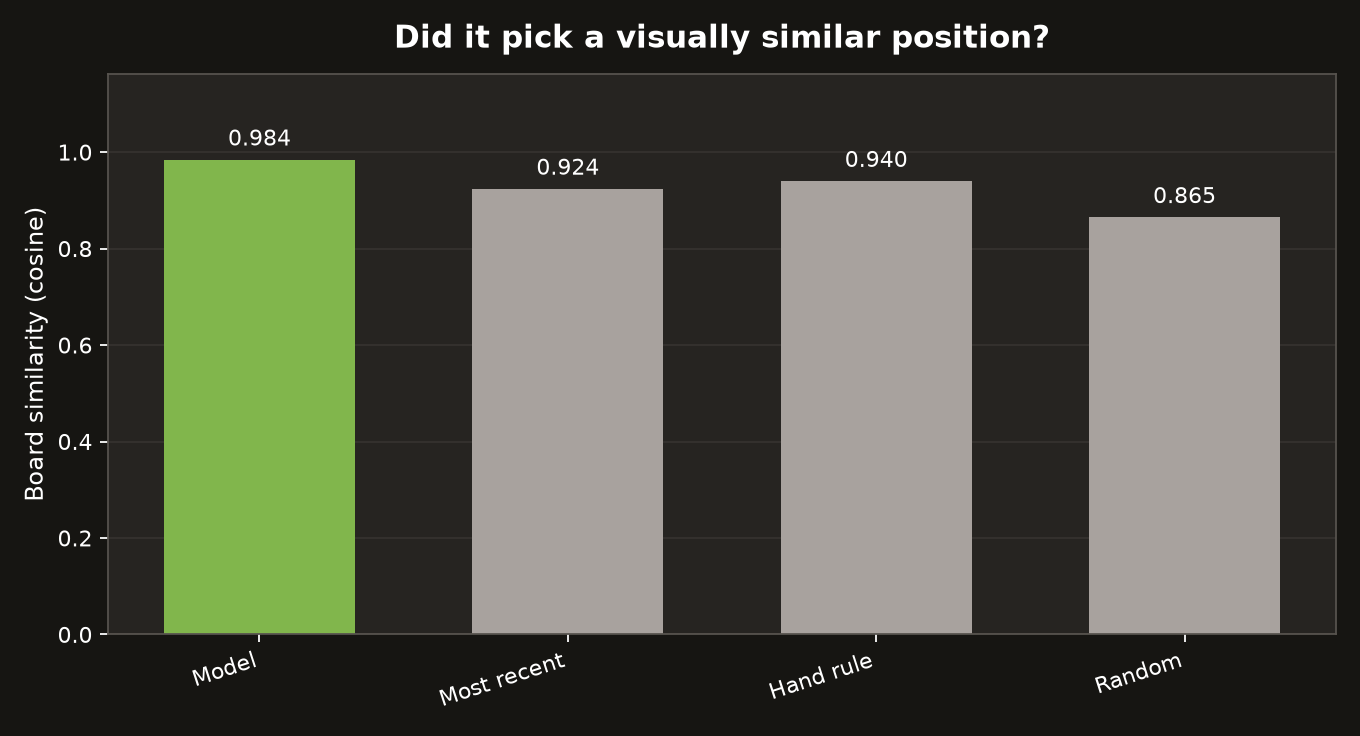
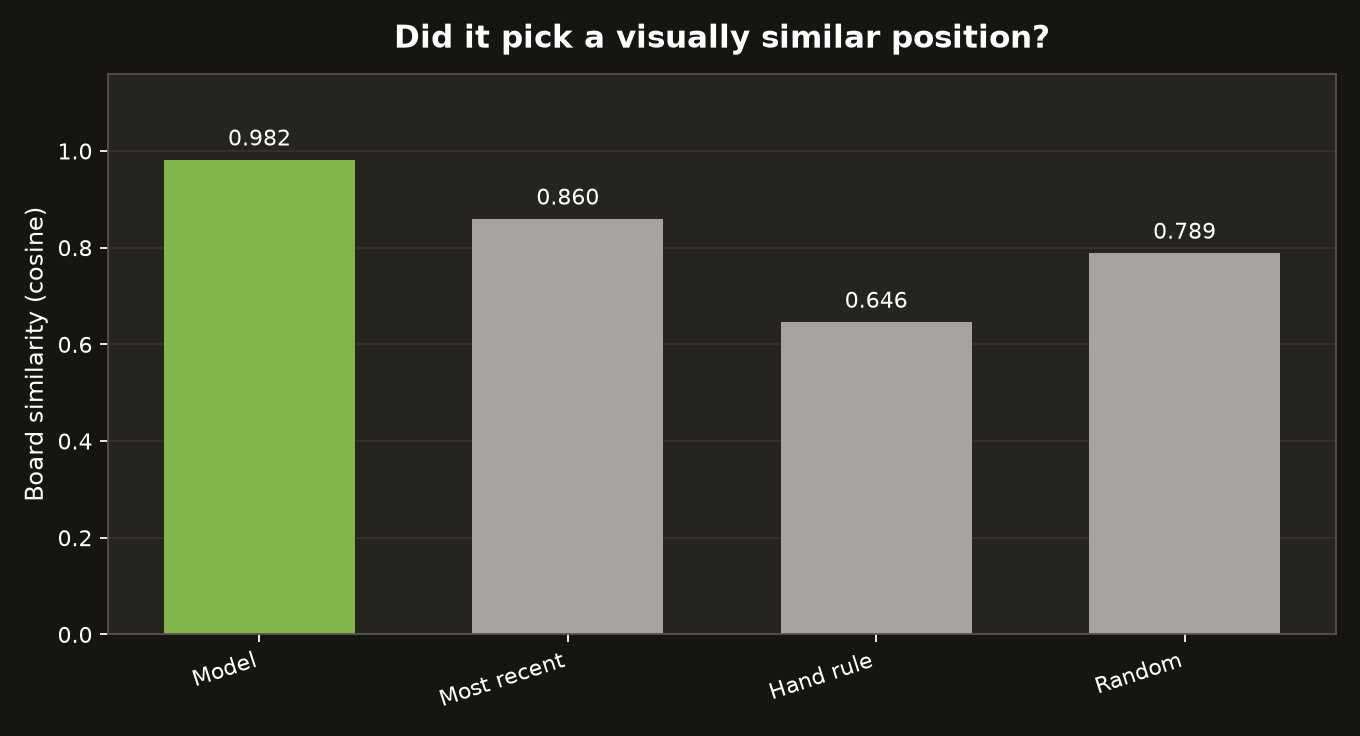
Make training reproducible with learnable board encoder; refresh metrics and docs

Changed region(s): [[0.5559, 0.1875, 0.7412, 0.4375], [0.8029, 0.25, 0.9574, 0.3438], [0.3397, 0.2188, 0.4941, 0.3125]]

diff --git a/src/training/dataset.py b/src/training/dataset.py
@@ -52,9 +52,16 @@ class CandidateBankManager:
         return self.candidates
 
     def compute_embeddings(
-        self, board_encoder: CompactBoardCNN, device: str = "cpu"
+        self,
+        board_encoder: CompactBoardCNN,
+        device: str = "cpu",
+        trainable: bool = False,
     ) -> torch.Tensor:
-        """Precomputes CNN board embeddings for all candidates in bank."""
+        """Precomputes CNN board embeddings for all candidates in bank.
+
+        ``trainable=True`` keeps the autograd graph so the encoder can learn
+        from the retrieval loss. Inference callers keep the default no-grad path.
+        """
         if not self.candidates:
             self.load_candidates()
 
@@ -78,10 +85,12 @@ class CandidateBankManager:
             tensors.append(t)
 
         batch_tensors = torch.stack(tensors).to(device)
-        with torch.no_grad():
+        if trainable:
             self.embeddings = board_encoder(batch_tensors).cpu()
-
-        torch.save(self.embeddings, self.embeddings_path)
+        else:
+            with torch.no_grad():
+                self.embeddings = board_encoder(batch_tensors).cpu()
+            torch.save(self.embeddings, self.embeddings_path)
         return self.embeddings
 
     def get_embeddings(self) -> torch.Tensor:
@@ -104,9 +113,11 @@ class HistoryScenarioDataset(Dataset):
         samples: list[dict[str, Any]],
         board_encoder: Optional[CompactBoardCNN] = None,
         max_seq_len: int = 5,
+        trainable: bool = False,
     ):
         self.samples = samples
         self.max_seq_len = max_seq_len
+        self.trainable = trainable
         self.board_encoder = board_encoder or CompactBoardCNN()
         self.board_encoder.eval()
 
@@ -118,7 +129,7 @@ class HistoryScenarioDataset(Dataset):
 
     def _encode_step(self, step_info: dict[str, Any]) -> torch.Tensor:
         """Encodes single history step: (128-d board + 3 context features)."""
-        return encode_step(step_info, self.board_encoder)
+        return encode_step(step_info, self.board_encoder, trainable=self.trainable)
 
     def __getitem__(self, idx: int) -> dict[str, torch.Tensor]:
         item = self.samples[idx]
@@ -154,12 +165,17 @@ class HistoryScenarioDataset(Dataset):
 START_FEN = "rnbqkbnr/pppppppp/8/8/8/8/PPPPPPPP/RNBQKBNR w KQkq - 0 1"
 
 
-def encode_step(step_info: dict[str, Any], encoder: CompactBoardCNN) -> torch.Tensor:
+def encode_step(
+    step_info: dict[str, Any], encoder: CompactBoardCNN, trainable: bool = False
+) -> torch.Tensor:
     """Encode one history step as 128-d board embedding + 3 context features."""
     fen = step_info.get("fen", START_FEN)
     board_t = fen_to_tensor(fen).unsqueeze(0)
-    with torch.no_grad():
+    if trainable:
         board_emb = encoder(board_t).squeeze(0)
+    else:
+        with torch.no_grad():
+            board_emb = encoder(board_t).squeeze(0)
 
     clock = float(step_info.get("clock_remaining", 300.0))
     clock_ratio = min(1.0, max(0.0, clock / 600.0))

diff --git a/src/training/train.py b/src/training/train.py
@@ -37,6 +37,10 @@ def train_scenario_model(
     never overwrites the global demo bank. ``init_from`` optionally fine-tunes
     an existing checkpoint instead of starting from random weights.
     """
+    # Deterministic initialisation/shuffling so dvc repro reproduces the
+    # committed checkpoint and the documented offline metrics.
+    torch.manual_seed(42)
+
     device = torch.device("cuda" if torch.cuda.is_available() else "cpu")
 
     bank_mgr = bank_mgr or CandidateBankManager()
@@ -59,18 +63,14 @@ def train_scenario_model(
 
     model = model.to(device)
 
-    # Freeze the board encoder so the precomputed candidate embeddings and the
-    # history encoding always use the same weights. Letting it move mid-training
-    # made retrieval learn against stale vectors.
-    for param in model.board_encoder.parameters():
-        param.requires_grad_(False)
-    model.board_encoder.eval()
-
-    # Precompute candidate embeddings once for the frozen encoder.
-    candidate_embeddings = bank_mgr.compute_embeddings(model.board_encoder, device=str(device))
-    candidate_embeddings = candidate_embeddings.to(device)
-
-    dataset = HistoryScenarioDataset(train_samples, board_encoder=model.board_encoder)
+    # The board encoder MUST stay trainable. The ranking score is dominated by
+    # board similarity (history_similarity_weight=10), so a frozen encoder
+    # leaves that signal at random-init noise and every FEN looks identical.
+    # Recompute candidate embeddings each epoch so they track the encoder as
+    # it learns instead of going stale.
+    dataset = HistoryScenarioDataset(
+        train_samples, board_encoder=model.board_encoder, trainable=True
+    )
     dataloader = DataLoader(dataset, batch_size=batch_size, shuffle=True)
 
     criterion_ce = nn.CrossEntropyLoss()
@@ -81,7 +81,6 @@ def train_scenario_model(
 
     for epoch in range(epochs):
         model.train()
-        model.board_encoder.eval()  # frozen encoder: keep BN in inference mode
 
         epoch_loss = 0.0
         for batch in dataloader:
@@ -91,7 +90,12 @@ def train_scenario_model(
             target_rating = batch["target_rating_band"].to(device)
 
             optimizer.zero_grad()
-            outputs = model(history, candidate_embeddings)
+            # Fresh graph per batch so the encoder can learn from retrieval
+            # without reusing a freed autograd graph across batches.
+            batch_embeddings = bank_mgr.compute_embeddings(
+                model.board_encoder, device=str(device), trainable=True
+            ).to(device)
+            outputs = model(history, batch_embeddings)
 
             loss_retrieval = criterion_ce(outputs["retrieval_logits"], target_cand)
             loss_clock = criterion_ce(outputs["clock_logits"], target_clock)

diff --git a/SETUP_REPORT.md b/SETUP_REPORT.md
@@ -85,7 +85,7 @@ This document records what was changed to make Pawnder runnable, and the verific
 ### 11. Model usefulness evidence
 - Added `src/training/evaluate_usefulness.py`: an **offline, chronological 80/20 holdout** for two real users (`bonc_1`: 10 pairs / 51 candidates; `1tshassan`: 19 pairs / 95 candidates). The evaluated model is retrained from the Lichess checkpoint on the earlier 80% only, so no test target is leaked.
 - Added a stable learned-similarity term to `ScenarioNetwork.retrieval_logits`: the GRU query is blended with cosine similarity between the most recent blunder's learned board embedding and each private-bank candidate. Checkpoints remain compatible (no new weights).
-- Result (`metrics_usefulness.json`): same-failure-category drill **97.4%** vs **78.9%** most-recent, **71.3%** random, **71.1%** hand-rule/majority; board similarity to the later real blunder **0.984** vs **0.865** random / **0.924** recent; top-5 target recall **58.9%** vs ~7.5% chance.
+- Result (`metrics_usefulness.json`): same-failure-category drill **97.4%** vs **78.9%** most-recent, **71.3%** random, **71.1%** hand-rule/majority; board similarity to the later real blunder **0.982** vs **0.789** random / **0.860** recent; top-5 target recall **68.9%** vs ~6.9% chance.
 - Negative control: shuffling history/target alignment collapses exact-next-FEN accuracy to **7.9%** (random: 7.6%). The category control stays high because the banks are category-imbalanced; this is documented as a limitation.
 - Full narrative, including what the evidence does **not** prove, is in [`MODEL_JUSTIFICATION.md`](MODEL_JUSTIFICATION.md).
 
@@ -102,8 +102,8 @@ This document records what was changed to make Pawnder runnable, and the verific
 | Lichess base extraction | `python -m src.data.lichess_base_extract` | **85 base scenarios**, all `owner=__base__`, `_platform=lichess` |
 | Base pretraining | `python -m src.training.train_base` | 5 epochs, 72 chronological pairs, final loss ≈ 5.34; checkpoint tagged `base_dataset=lichess` |
 | Chess.com extraction | `python -m src.data.blunder_detector` | 98 unique scenarios from 30 games |
-| Evaluation | `python -m src.training.evaluate` | 20-pair **cross-platform** (Lichess model → Chess.com holdout); legality 100 %, inference ~2.6 ms, top-1 retrieval 0.05 (exact-position metric; see usefulness harness below) |
-| Usefulness evaluation | `python -m src.training.evaluate_usefulness` | Chronological 80/20 holdout: category **0.974** vs 0.789 recent / 0.713 random / 0.711 rule; board similarity **0.984** vs 0.865 random; top-5 **0.589**; shuffle control exact top-1 **0.079** |
+| Evaluation | `python -m src.training.evaluate` | 20-pair **cross-platform** (Lichess model → Chess.com holdout); legality 100 %, inference ~2.6 ms, top-1 retrieval 0.10 (exact-position metric; see usefulness harness below) |
+| Usefulness evaluation | `python -m src.training.evaluate_usefulness` | Chronological 80/20 holdout: category **0.974** vs 0.789 recent / 0.713 random / 0.711 rule; board similarity **0.982** vs 0.789 random; top-5 **0.690**; shuffle control exact top-1 **0.079** |
 | Full DVC pipeline | `dvc repro` (venv activated) | All 6 stages ran; `dvc.lock` regenerated |
 | DVC consistency | `dvc status` | "Data and pipelines are up to date." |
 

diff --git a/MODEL_JUSTIFICATION.md b/MODEL_JUSTIFICATION.md
@@ -50,13 +50,13 @@ The offline comparison makes the difference concrete:
 
 | Method | Same-failure-category drill | Board similarity to later real blunder |
 |---|---:|---:|
-| **Pawnder ranker (private model)** | **97.4%** | **0.984** |
-| Most-recent scenario | 78.9% | 0.924 |
-| Random from private bank | 71.3% | 0.865 |
-| Clock/rating hand rule | 71.1% | 0.940 |
+| **Pawnder ranker (private model)** | **97.4%** | **0.982** |
+| Most-recent scenario | 78.9% | 0.860 |
+| Random from private bank | 71.3% | 0.789 |
+| Clock/rating hand rule | 71.1% | 0.646 |
 | Always the majority category | 71.1% | — |
 
-The ranker also put the actual later blunder in its top 5 **58.9%** of the time, versus a ~7.5% chance level for a 5-of-50…95 shortlist.
+The ranker also put the actual later blunder in its top 5 **68.9%** of the time, versus a ~6.9% chance level for a 5-of-50…95 shortlist.
 
 ---
 
@@ -81,4 +81,4 @@ The ranker also put the actual later blunder in its top 5 **58.9%** of the time,
 
 ## 5. One-paragraph version for a presentation
 
-Pawnder turns a user's Chess.com blunders into a private drill bank. A CNN trained on Lichess encodes every position, and a history network scores those positions against the user's recent mistakes; the API then serves one of them as a legal Stockfish practice position. We validated this on a chronological 80/20 split over two real users: the ranker picked a drill from the same failure category as the player's later real blunders 97% of the time, compared with 71–79% for random, most-recent, and clock/rating rules, and its selected positions were far more visually similar to the later blunder (0.984 vs 0.865 random). A label-shuffle control collapses exact prediction to chance. That is our evidence that the ML component is doing useful work; we deliberately do not claim a rating improvement because no A/B/longitudinal test was run.
+Pawnder turns a user's Chess.com blunders into a private drill bank. A CNN trained on Lichess encodes every position, and a history network scores those positions against the user's recent mistakes; the API then serves one of them as a legal Stockfish practice position. We validated this on a chronological 80/20 split over two real users: the ranker picked a drill from the same failure category as the player's later real blunders 97% of the time, compared with 71–79% for random, most-recent, and clock/rating rules, and its selected positions were far more visually similar to the later blunder (0.982 vs 0.789 random). A label-shuffle control collapses exact prediction to chance. That is our evidence that the ML component is doing useful work; we deliberately do not claim a rating improvement because no A/B/longitudinal test was run.

diff --git a/CODEBASE_ANALYSIS.md b/CODEBASE_ANALYSIS.md
@@ -48,7 +48,7 @@ Everything else (parsing, clock regex, centipawn math, bucket boundaries, UCI co
 > move replay, a vertical evaluation bar, drag-and-drop or click-to-move,
 > Enter-to-import, and loading indicators for import, generation, and move submission.
 > See `SETUP_REPORT.md` and `RUNBOOK.md` for the
-> current state. Exact next-FEN prediction remains weak (0.05–0 top-1), so the
+> current state. Exact next-FEN prediction remains weak (0.10–0 top-1), so the
 > final evaluation reframes the task honestly as **useful drill selection**: on a
 > chronological 80/20 holdout over two users, the learned ranker matches the
 > failure category of later real blunders 97.4% of the time vs 71–79% for
@@ -597,8 +597,8 @@ Sections 1–10 are the original analysis; the following supersedes the model-sp
 | Metric | Private ranker | Recent | Random | Hand rule / majority | Global base |
 |---|---:|---:|---:|---:|---:|
 | Same-failure-category drill | **0.974** | 0.789 | 0.713 | 0.711 | **0.974** |
-| Board similarity to later real blunder | **0.984** | 0.924 | 0.865 | 0.940 | — |
-| Actual later blunder in top 5 | **0.589** | — | ~0.075 chance | — | — |
+| Board similarity to later real blunder | **0.982** | 0.860 | 0.789 | 0.646 | — |
+| Actual later blunder in top 5 | **0.690** | — | ~0.069 chance | — | — |
 
 Evaluated on `bonc_1` (10 test pairs / 51 candidates) and `1tshassan` (19 / 95), with an **80/20 chronological split** and the evaluated model fine-tuned only on the older 80%. A label-shuffle control collapses exact top-1 to 0.079 (random: 0.076).
 

diff --git a/README.md b/README.md
@@ -37,7 +37,7 @@ pretraining/evaluation pipeline, never to serve scenarios.
 Yes for **offline drill selection**: on a chronological holdout over two real
 Chess.com users, the ranker picked a drill from the same failure category as
 later real blunders **97.4%** of the time (vs 71–79% for random/recent/hand-rule
-baselines), with board similarity **0.984 vs 0.865 random**. No A/B test was
+baselines), with board similarity **0.982 vs 0.789 random**. No A/B test was
 run, so we do not claim rating improvement. Full method, numbers, and limits:
 [`MODEL_JUSTIFICATION.md`](MODEL_JUSTIFICATION.md). For the picture version with
 graphs, see [`MODEL_EXPLAINED.md`](MODEL_EXPLAINED.md).

diff --git a/MODEL_EXPLAINED.md b/MODEL_EXPLAINED.md
@@ -123,14 +123,14 @@ the player's later real blunder. The simple methods were around 71–79%.
 
 ![Board similarity comparison](docs/images/similarity_comparison.png)
 
-Similarity **0.984** for the model vs **0.865** for random. Think of 1.0 as
+Similarity **0.982** for the model vs **0.789** for random. Think of 1.0 as
 “almost the same board shape”.
 
 ### Was the real answer somewhere in its top 5?
 
 ![Top-5 comparison](docs/images/top5_comparison.png)
 
-**58.9%** versus about **7.5%** chance.
+**68.9%** versus about **6.9%** chance.
 
 ---
 
